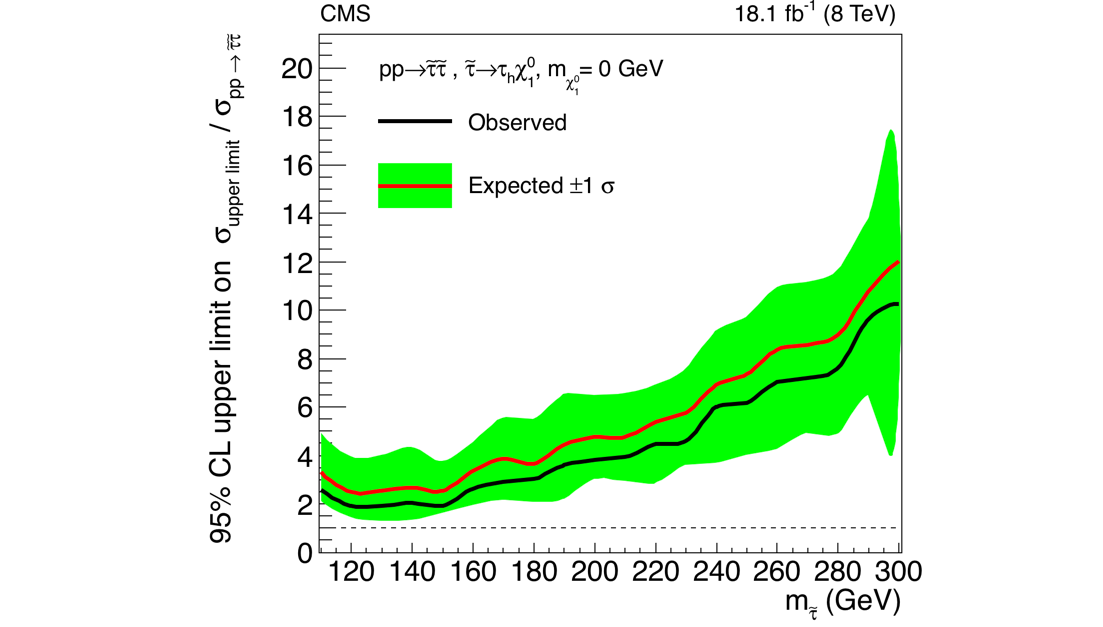
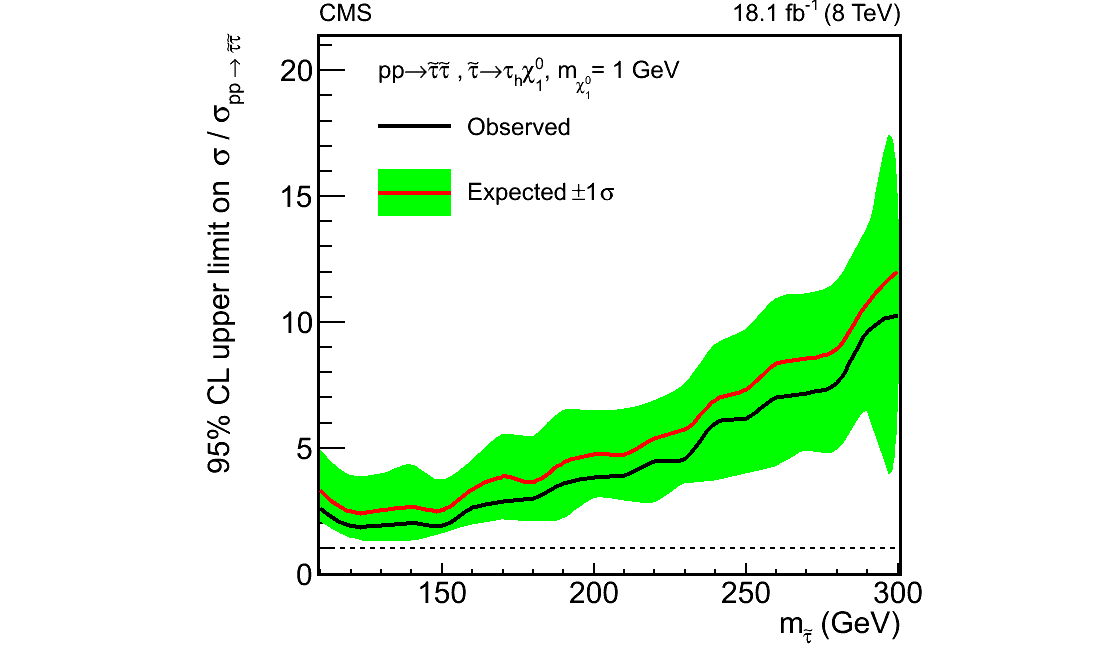
Comments on Statistics.tex checked. ipell ran. Ready to go.

diff --git a/papers/SUS-14-022/trunk/StatisticsFig/ExclusionSTauSTauLsp1.C b/papers/SUS-14-022/trunk/StatisticsFig/ExclusionSTauSTauLsp1.C
@@ -3,8 +3,10 @@ void ExclusionSTauSTauLsp1()
 //=========Macro generated from canvas: ExclusionSTauSTauLsp1/ExclusionSTauSTauLsp1
 //=========  (Tue Jul 19 16:31:56 2016) by ROOT version6.07/07
    TCanvas *ExclusionSTauSTauLsp1 = new TCanvas("ExclusionSTauSTauLsp1", "ExclusionSTauSTauLsp1",0,45,1105,679);
+//   TCanvas *ExclusionSTauSTauLsp1 = new TCanvas("ExclusionSTauSTauLsp1", "ExclusionSTauSTauLsp1",177,131,848,847);
    gStyle->SetOptTitle(0);
    ExclusionSTauSTauLsp1->Range(4.446029,-3.052129,366.7901,22.80848);
+   //   ExclusionSTauSTauLsp1->Range(51.37143,-3.802408,333.6571,24.1758);
    ExclusionSTauSTauLsp1->SetFillColor(0);
    ExclusionSTauSTauLsp1->SetBorderMode(0);
    ExclusionSTauSTauLsp1->SetBorderSize(2);
@@ -165,7 +167,7 @@ void ExclusionSTauSTauLsp1()
    Graph_Graph_Graph_Graph_Graph_Graph_Graph_Graph_Graph_Graph_Graph_TwoSigmaBand30013001300130013001300130023001300230013001->GetXaxis()->SetTitleSize(0.05);
    Graph_Graph_Graph_Graph_Graph_Graph_Graph_Graph_Graph_Graph_Graph_TwoSigmaBand30013001300130013001300130023001300230013001->GetXaxis()->SetTitleOffset(1.03);
    Graph_Graph_Graph_Graph_Graph_Graph_Graph_Graph_Graph_Graph_Graph_TwoSigmaBand30013001300130013001300130023001300230013001->GetXaxis()->SetTitleFont(42);
-   Graph_Graph_Graph_Graph_Graph_Graph_Graph_Graph_Graph_Graph_Graph_TwoSigmaBand30013001300130013001300130023001300230013001->GetYaxis()->SetTitle("95% CL upper limit on  #sigma_{upper limit} / #sigma_{pp #rightarrow #tilde{#tau}#tilde{#tau}}");
+   Graph_Graph_Graph_Graph_Graph_Graph_Graph_Graph_Graph_Graph_Graph_TwoSigmaBand30013001300130013001300130023001300230013001->GetYaxis()->SetTitle("95% CL upper limit on  #sigma / #sigma_{pp #rightarrow #tilde{#tau}#tilde{#tau}}");
    Graph_Graph_Graph_Graph_Graph_Graph_Graph_Graph_Graph_Graph_Graph_TwoSigmaBand30013001300130013001300130023001300230013001->GetYaxis()->SetLabelFont(42);
    Graph_Graph_Graph_Graph_Graph_Graph_Graph_Graph_Graph_Graph_Graph_TwoSigmaBand30013001300130013001300130023001300230013001->GetYaxis()->SetLabelSize(0.05);
    Graph_Graph_Graph_Graph_Graph_Graph_Graph_Graph_Graph_Graph_Graph_TwoSigmaBand30013001300130013001300130023001300230013001->GetYaxis()->SetTitleSize(0.05);
@@ -362,7 +364,7 @@ void ExclusionSTauSTauLsp1()
    tex->SetTextSize(0.04026846);
    tex->SetLineWidth(2);
    tex->Draw();
-      tex = new TLatex(129.0524,19.67386,"pp#rightarrow#tilde{#tau}#tilde{#tau} , #tilde{#tau}#rightarrow#tau_{h}#chi^{0}_{1}, m_{#chi^{0}_{1}}= 0 GeV");
+      tex = new TLatex(129.0524,19.67386,"pp#rightarrow#tilde{#tau}#tilde{#tau} , #tilde{#tau}#rightarrow#tau_{h}#chi^{0}_{1}, m_{#chi^{0}_{1}}= 1 GeV");
    tex->SetTextFont(42);
    tex->SetTextSize(0.04);
    tex->SetLineWidth(2);
@@ -376,4 +378,6 @@ void ExclusionSTauSTauLsp1()
    ExclusionSTauSTauLsp1->cd();
    ExclusionSTauSTauLsp1->SetSelected(ExclusionSTauSTauLsp1);
    ExclusionSTauSTauLsp1->ToggleToolBar();
+   ExclusionSTauSTauLsp1->SaveAs("ExclusionSTauSTauLsp1.pdf");
+   ExclusionSTauSTauLsp1->SaveAs("ExclusionSTauSTauLsp1.png");
 }

diff --git a/papers/SUS-14-022/trunk/Statistics.tex b/papers/SUS-14-022/trunk/Statistics.tex
@@ -71,9 +71,9 @@ The triangle in the bottom-left corner of Figs.~\ref{fig:limit_final} and
 %The \sTau searches in the LEP experiments \cite{lepsusy} have excluded \sTau masses below 95\GeV. In Figs.~\ref{fig:limit_final} and 
 %\ref{fig:limit_tauTau}, this region corresponds to the triangle in bottom-left corner. 
 %The diagonal line denotes the boundary for $m_{\chione} = m_{\tau} + m_{\neutralino}$, which is the kinematical boundary of the search.
-The expected limits and the contours corresponding to $\pm$1 standard deviations from experimental uncertainties are shown in red lines. 
+The expected limits and the contours corresponding to $\pm$1 standard deviation from experimental uncertainties are shown in red lines. 
 The observed limits are shown with a black solid line, 
-while the $\pm$1 standard deviations based on the signal cross section uncertainties are shown with narrower black lines.
+while the $\pm$1 standard deviation based on the signal cross section uncertainties are shown with narrower black lines.
 %The signal cross sections in NLO + NLL order in the strong coupling constant $\alpha_s$ are used to make the exclusion limits.
 In the whole region, the observed limits are within one standard deviation of the expected limits.  
 
